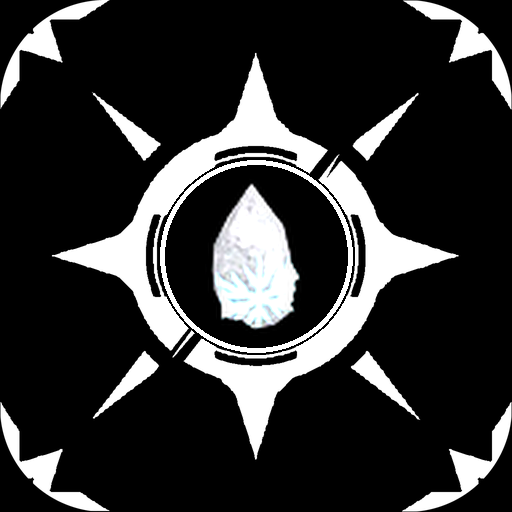
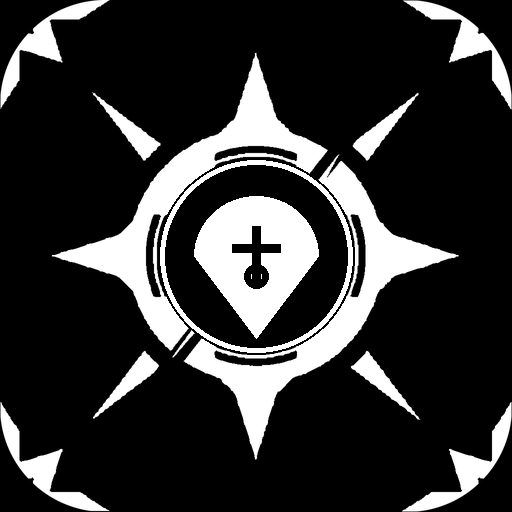
Cursed Rune event page, rune pop back in items

Changed region(s): [[0.375, 0.3438, 0.625, 0.6562]]

diff --git a/ui/index.html b/ui/index.html
@@ -2135,7 +2135,7 @@
               <div class="switch" id="sw-auto_items" onclick="toggleCfg('auto_items')"></div>
             </div>
             <div class="row">
-              <div class="row-info"><div class="row-lbl">Auto Cursed Rune Fragment</div><div class="row-hint">Uses a Cursed Rune Fragment after a chosen event biome runs for N seconds</div></div>
+              <div class="row-info"><div class="row-lbl">Auto Rune Pop</div><div class="row-hint">Uses a Cursed Rune Fragment after a chosen event biome runs for N seconds</div></div>
               <div class="switch" id="sw-rune_on" onclick="toggleCfg('rune_on')"></div>
             </div>
             <div class="sub-panel" id="sub-rune_on">
@@ -2266,17 +2266,15 @@
         <section class="page" id="page-event">
           <div class="card">
             <div class="card-hdr">
-              <div><div class="card-title">Auto Rune Pop</div><div class="card-sub">Use a Cursed Rune Fragment as soon as one of your event biomes starts</div></div>
+              <div><div class="card-title">Cursed Rune</div><div class="card-sub">Cursed Rune Fragment — used automatically on your event biomes</div></div>
               <span class="badge">EVENT</span>
             </div>
-            <div class="row">
-              <div class="row-info"><div class="row-lbl">Auto Rune Pop</div><div class="row-hint">Watches for your selected event biomes and pops a rune automatically when one arrives</div></div>
-              <div class="switch" id="sw-rune_on_event" onclick="toggleCfg('rune_on')"></div>
-            </div>
-            <div class="sub-panel" id="sub-rune_on_event">
-              <div class="row">
-                <div class="row-info"><div class="row-lbl">Rune Delay</div><div class="row-hint">Seconds to wait after the biome starts</div></div>
-                <input class="input" id="inp-rune_after_event" style="width:100px" type="number" min="0" onchange="saveField('rune_after', this.value)" />
+            <div style="padding:16px 20px;display:flex;gap:20px;align-items:center;flex-wrap:wrap">
+              <img src="/ui/items/rune_icon.png" style="width:104px;height:104px;border-radius:14px" alt="Cursed Rune" />
+              <div style="flex:1;min-width:240px">
+                <div class="row-lbl">Cursed Rune Fragment</div>
+                <div class="row-hint">When <b>Auto Rune Pop</b> is enabled in Items &amp; Potions, Veyra uses a Cursed Rune Fragment as soon as one of your selected event biomes starts. Choose the biomes and the delay there.</div>
+                <button class="btn-sm" style="margin-top:12px" onclick="switchTab('items')">Open Items &amp; Potions →</button>
               </div>
             </div>
           </div>
@@ -3488,10 +3486,6 @@ function renderAll() {
   ['anti_afk','yield_pc','clip_on','clip_key_on','equip_on','auto_reconnect','rejoin_browser','fx_on',
    'fish_on','fish_vip','fish_sell_all','fish_full_check','auto_items','rune_on','selector_on',
    'pop_on','merchant_on','collect_on','eden_on','eden_path','eden_record','auto_update','discord_rpc'].forEach(k => setSw('sw-' + k, c[k]));
-   setSw('sw-rune_on_event', c.rune_on);
-   setSub('rune_on_event', c.rune_on);
-   const runeAfterInput = document.getElementById('inp-rune_after_event');
-   if (runeAfterInput && document.activeElement !== runeAfterInput) runeAfterInput.value = c.rune_after ?? 0;
   applyTheme(c.theme || 'dark');
   const discordSt = STATE.discord_status || {};
   const discordStatusEl = document.getElementById('discordRpcStatus');
